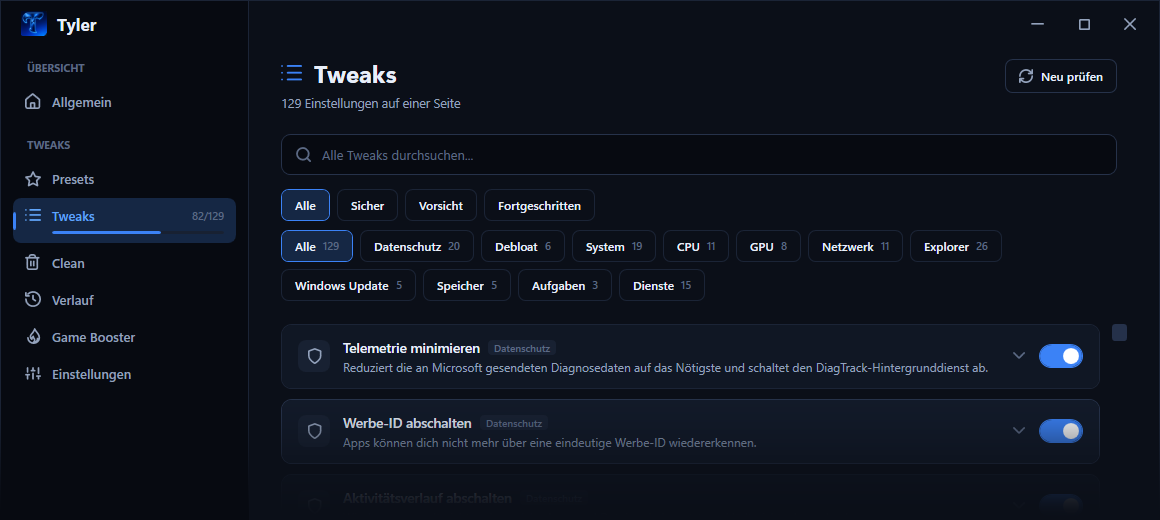
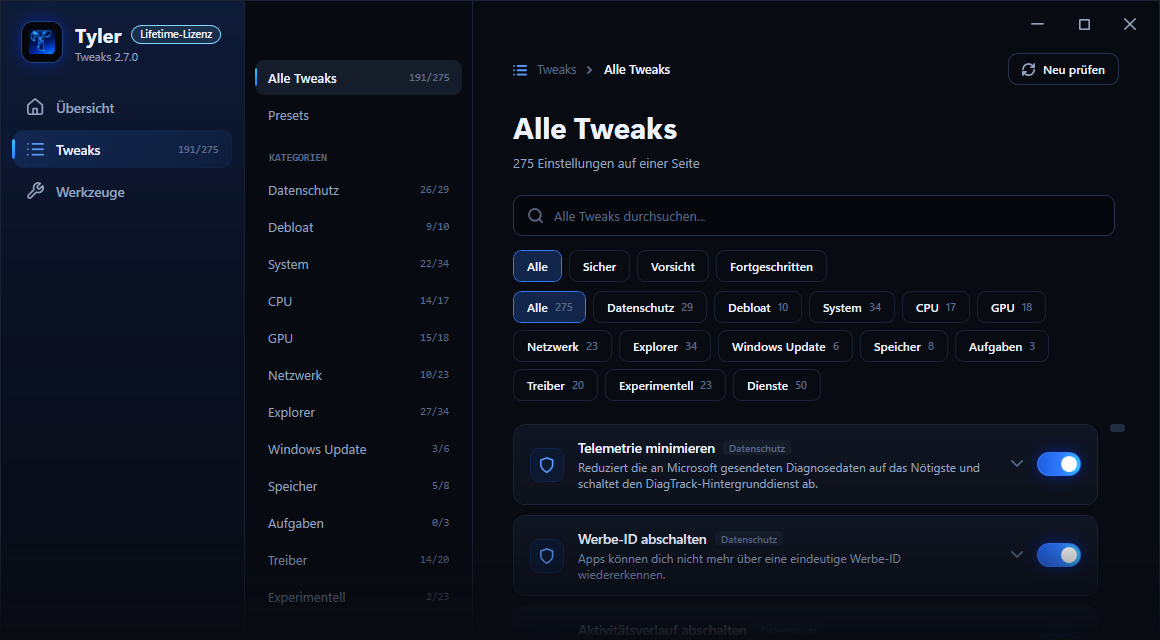
App-Aufnahmen im neuen Design
Die beiden Bilder im Abschnitt „Echte Aufnahmen aus der App“ zeigen jetzt
Tyler 2.7 in Blau-Schwarz: die Übersicht (191 von 275 Tweaks aktiv) und
die Seite „Alle Tweaks“ mit den Kategorien in der zweiten Spalte.

Die Tweaks-Aufnahme ist mit 640 statt 520 Pixeln etwas höher, damit die
neue Filterzeile und der erste Eintrag ganz zu sehen sind; das CSS
skaliert die Bilder frei. Die Alt-Texte beschreiben, was jetzt darauf ist.

Die Zahlen im Fließtext (129, elf Bereiche) bleiben, bis das
Release-Skript sie zusammen mit tweaks.json auf den neuen Stand bringt.

diff --git a/index.html b/index.html
@@ -250,19 +250,19 @@
           <figure class="shot">
             <img src="bilder/app-uebersicht.png" width="1160" height="800"
                  loading="lazy" decoding="async"
-                 alt="Übersichtsseite der Tweak App: erkannte Hardware, 82 von 129 angewendeten Tweaks und die Live-Auslastung von CPU und GPU.">
+                 alt="Übersichtsseite der Tweak App im blau-schwarzen Design: erkannte Hardware, 191 von 275 Tweaks aktiv und die Aufteilung nach Risiko.">
           </figure>
           <p class="shot-caption">Übersicht: erkannte Hardware, wie viele Tweaks gerade aktiv sind und die Live-Auslastung. Auf dieser Seite wird nichts verändert.</p>
         </div>
 
         <!-- ---- Ansicht 2: Tweaks. Die Aufnahme ist bewusst im dritten Eintrag
-                  abgeschnitten: der Umfang gehört auf die Seite, die Liste
-                  selbst in die App. ---- -->
+                  abgeschnitten und läuft unten aus: der Umfang gehört auf die
+                  Seite, die Liste selbst in die App. ---- -->
         <div class="shot-panel" role="tabpanel" id="panel-tweaks" aria-labelledby="tab-tweaks" tabindex="0" hidden>
           <figure class="shot">
-            <img src="bilder/app-tweaks.png" width="1160" height="520"
+            <img src="bilder/app-tweaks.png" width="1160" height="640"
                  loading="lazy" decoding="async"
-                 alt="Tweak-Liste der App: Suchfeld, Filter nach Risiko und Kategorie, darunter die ersten Einträge mit Erklärung und Schalter.">
+                 alt="Tweak-Liste der App: links die Kategorien mit Zählern, rechts Suchfeld, Filter nach Risiko und Kategorie und die ersten Einträge mit Erklärung und Schalter.">
           </figure>
           <p class="shot-caption">Tweaks: filterbar nach Kategorie und Risiko, jeder Eintrag mit Erklärung und eigenem Schalter. Die vollständige Liste siehst du in der App.</p>
         </div>
